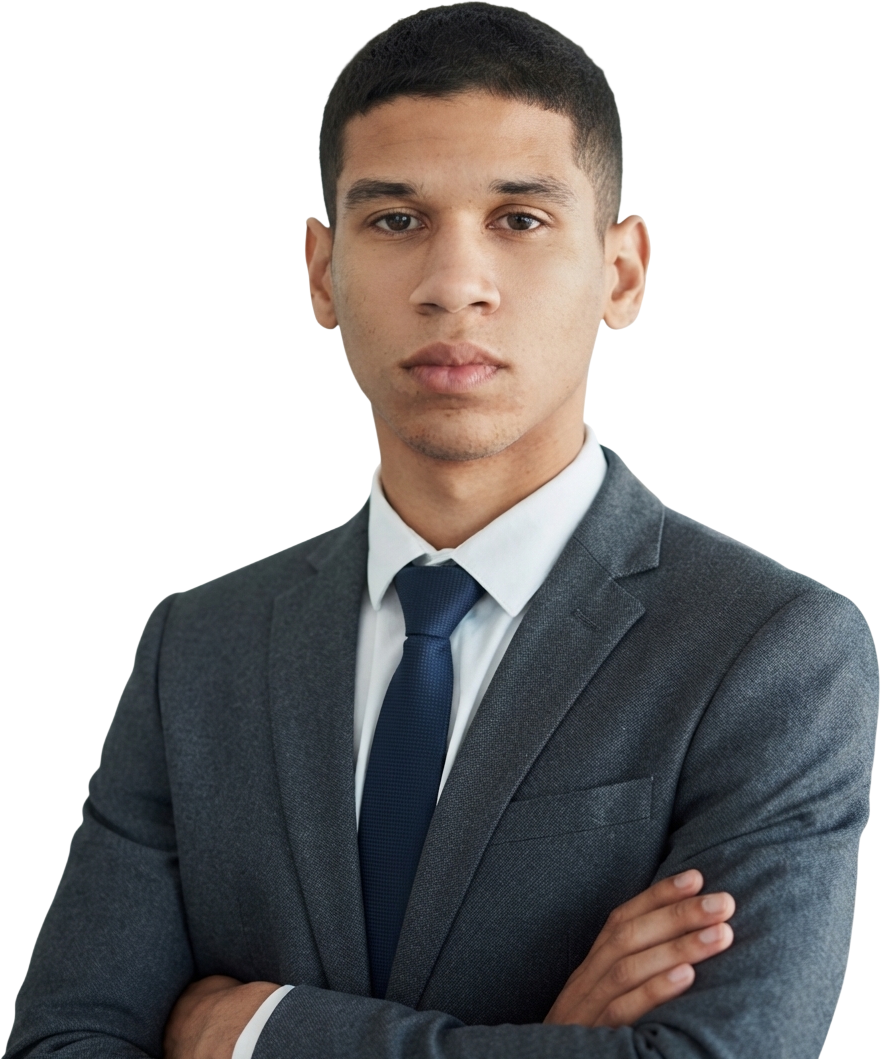
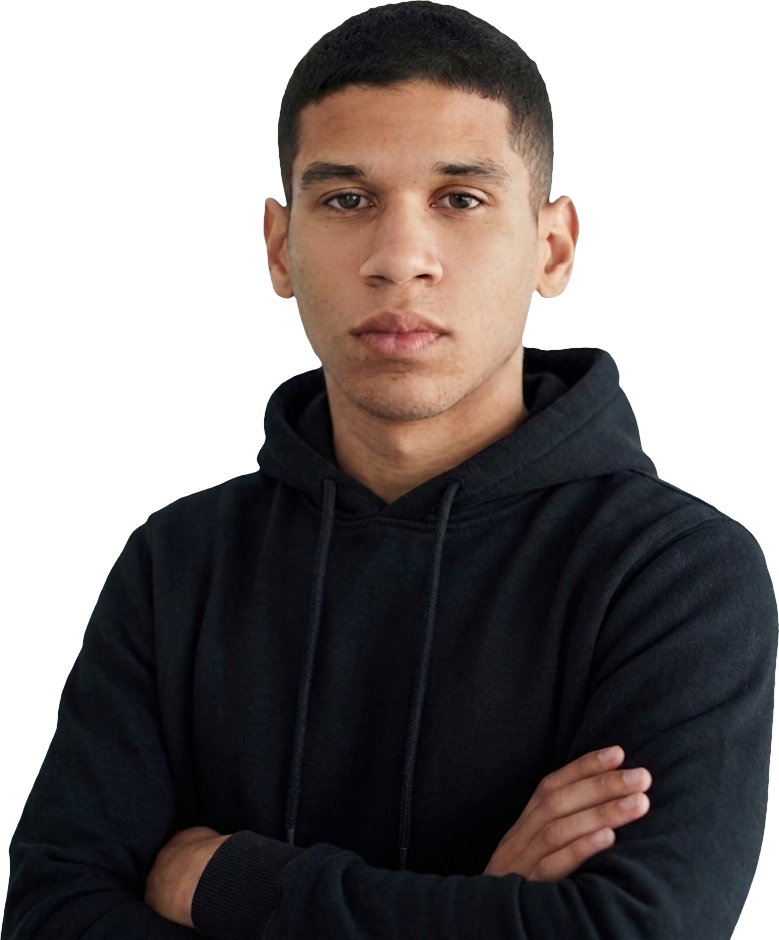
perfil: nueva foto de perfil (foto.png) y gitignore para CV.pdf y carnet

diff --git a/index.html b/index.html
@@ -88,7 +88,7 @@
                 </p>
             </div>
             <div class="about-photo fade-in">
-                <img src="public/fotoV2.png" alt="Jesús Emilio Rodríguez Alfonzo" />
+                <img src="public/foto.png" alt="Jesús Emilio Rodríguez Alfonzo" />
             </div>
         </div>
     </section>
